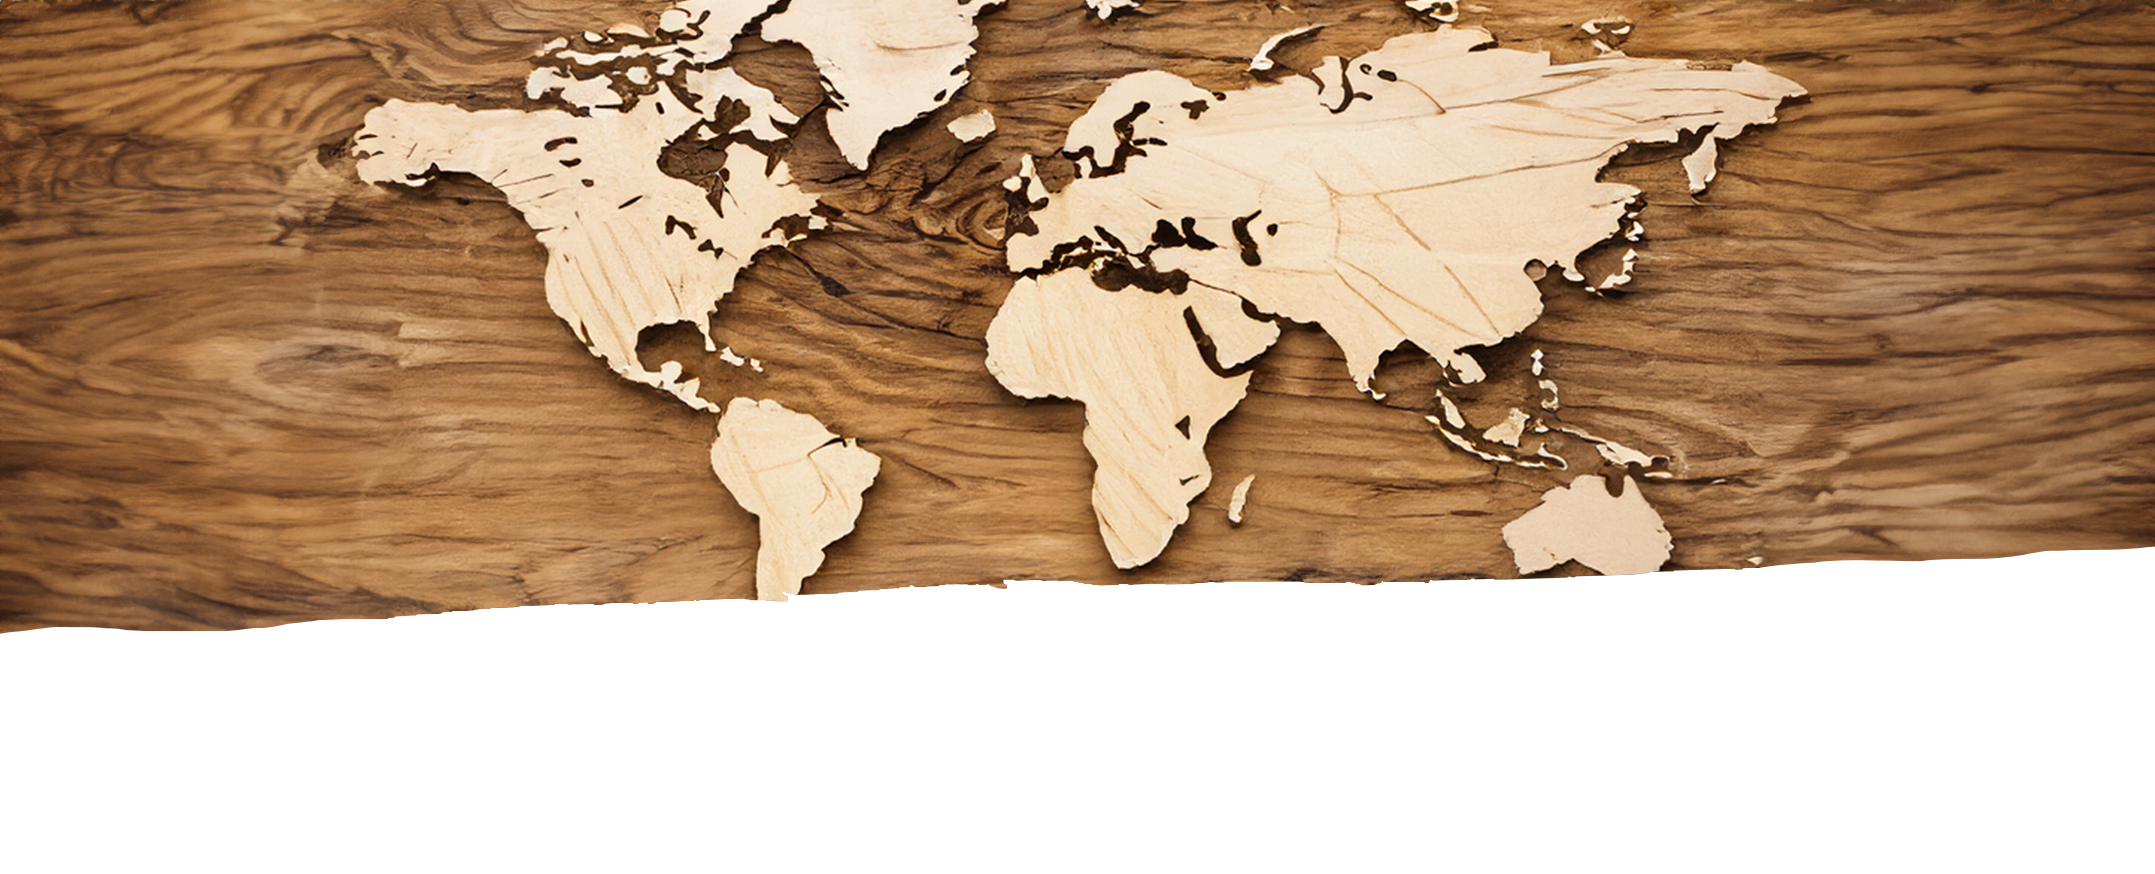
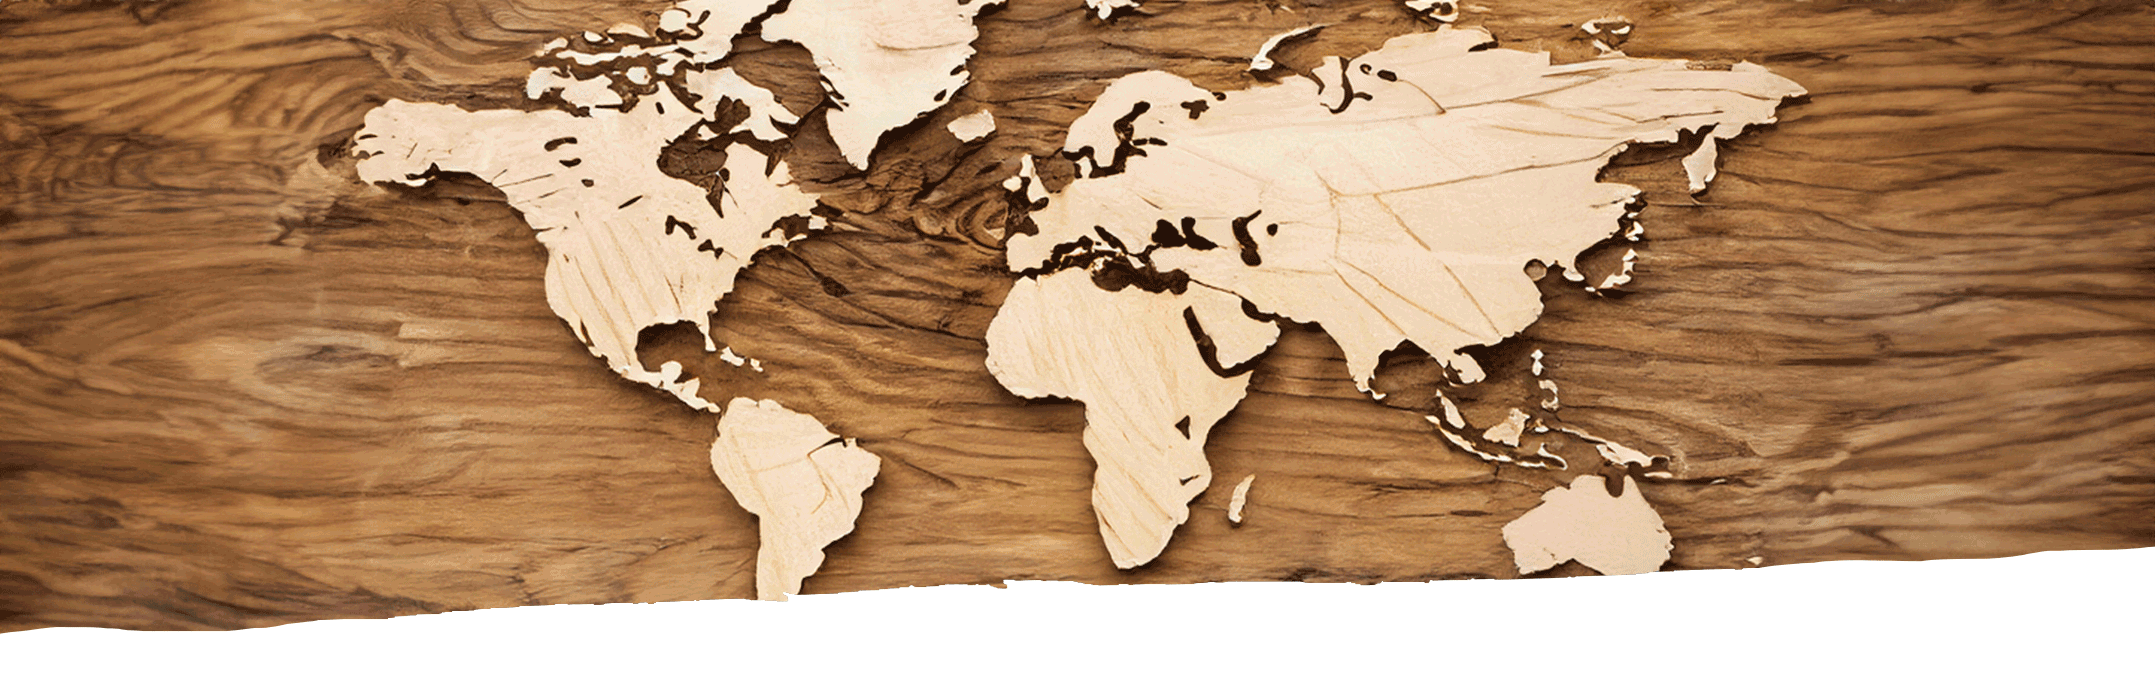
Adiciona as últimas correções passads, como o reajuste das larguras das imagens no mobile, torna o campo outras obras no pop up da imagem clicável, adiciona novas obras, muda as imagens para imagens mais otimziadas.

diff --git a/src/Components/PopupObra/index.jsx b/src/Components/PopupObra/index.jsx
@@ -44,7 +44,7 @@ const StyledCloseIcon = styled(IconButton)(() => ({
     'svg': {
         fontSize: '30px'
     },
-    '@media (max-width: 600px)' : {
+    '@media (max-width: 600px)': {
         right: '6px!important',
         top: '7px!important',
     }
@@ -78,11 +78,11 @@ export default function PopupObra() {
             >
                 <CloseIcon />
             </StyledCloseIcon>
-            <ConteinerPopupObra>
+            <ConteinerPopupObra className={obraSelected.horientacao && 'image-portrait'}>
                 <ConteinerImage>
-                    <img src={obraSelected.url} />
+                    <img src={obraSelected.url} className={obraSelected.horientacao && 'image-portrait'} />
                 </ConteinerImage>
-                <ConteinerDetalhesObra>
+                <ConteinerDetalhesObra className={obraSelected.horientacao && 'image-portrait'}>
                     <section>
                         <h6 className='background-red'>OBRA</h6>
                         <h1>{obraSelected.nome}</h1>
@@ -91,23 +91,21 @@ export default function PopupObra() {
                             <ConteinerCaracteristicasObra>
                                 <div>
                                     <dt>Material</dt>
-                                    <dd>{obraSelected.material}</dd>
+                                    <dd>{obraSelected?.material}</dd>
                                 </div>
+                                {obraSelected.medidas &&
+                                    <div>
+                                        <dt>Medidas</dt>
+                                        <dd>{obraSelected.medidas}</dd>
+                                    </div>
+                                }
 
-                                <div>
-                                    <dt>Medidas</dt>
-                                    <dd>{obraSelected.medidas}</dd>
-                                </div>
-
-                                <div>
-                                    <dt>Ano</dt>
-                                    <dd>{obraSelected.ano}</dd>
-                                </div>
-
-                                <div>
-                                    <dt>Disponibilidade</dt>
-                                    <dd>{obraSelected.disponibilidade}</dd>
-                                </div>
+                                {obraSelected.ano &&
+                                    <div>
+                                        <dt>Ano</dt>
+                                        <dd>{obraSelected.ano}</dd>
+                                    </div>
+                                }
                             </ConteinerCaracteristicasObra>
                         </section>
                     </section>

diff --git a/src/Components/PopupObra/styles.js b/src/Components/PopupObra/styles.js
@@ -6,7 +6,11 @@ export const ConteinerPopupObra = styled.div`
     position: relative;
     height: 647px;
 
-    @media (max-width: 900px) {
+    &.image-portrait {
+        justify-content: space-between;
+    }
+
+    @media (max-width: 1200px) {
         height: auto;
         flex-direction: column;
         padding: 25px 0;
@@ -32,28 +36,49 @@ export const ConteinerImage = styled.div`
         box-shadow: 10px 10px 23px -17px rgba(0,0,0,0.75);
     }
 
+    .image-portrait {
+        width: 527px;
+        height: auto;
+    }
+
     @media (max-width: 900px) {
         width: 100%;
         right: 0;
         text-align: center;
         margin-bottom: 20px;
+
+        &.image-portrait {
+            width: 100%;
+        }
+
+        .image-portrait {
+            width: 95%;
+        }
     }
 
     @media (max-width: 1125px) and (min-width: 900px) {
-        width: 41%;
-        right: 5%;
+        width: 100%;
+        right: 0;
+        display: flex;
+        justify-content: center;
+        margin-bottom: 30px;
+
         img {
             width: 281px;
             height: 427px;
         }
     }
-` 
+`
 
 export const ConteinerDetalhesObra = styled.div`
     width: 70%;
     display: flex;
     flex-direction: column;
     justify-content: space-between;
+
+    &.image-portrait {
+        width: 59%;
+    }
 
     .background-red {
         font-size: 10px;
@@ -87,6 +112,22 @@ export const ConteinerDetalhesObra = styled.div`
 
     @media (min-width: 900px) {
         height: 527px;
+
+        &.image-portrait {
+            width: 59%;
+        }
+    }
+
+    @media (max-width: 900px) {
+        width: 95%;
+
+        &.image-portrait {
+            width: 95%;
+        }
+
+        h1 {
+            font-size: 35px;
+        }
     }
 `
 

diff --git a/src/Pages/Sobre/index.jsx b/src/Pages/Sobre/index.jsx
@@ -34,7 +34,7 @@ export default function PageSobre() {
                             Diferente de todos os homens da sua geração que estavam predestinados a trabalhar na roça, o sábio sertão traçou planos diferentes para Cícero, seu traço fino esculpiu um futuro bem diferente e marcou com o seu canivete toda a história de Nossa Senhora da Glória.
                         </p>
                         <p className="p-margin-bt">
-                            Sem nunca ter observado o trabalho de outros artistas, num ambiente rural, em que o único contato com o mundo exterior era feito através do rádio, ele começou a moldar primeiro em Cera de Abelha depois em madeira. A missão de Véio era introduzir este novo conceito ao seu povo, o qual chamamos de “Arte”.
+                            Sem nunca ter observado o trabalho de outros artistas, num ambiente rural, em que o único contato com o mundo exterior era feito através do rádio, ele começou a moldar primeiro em cera de abelha depois em madeira. A missão de Véio era introduzir este novo conceito ao seu povo, o qual chamamos de “Arte”.
                         </p>
                         <p className="p-margin-bt">
                             Hoje sua história já foi mostrada em  documentários, reportagens, livros, revistas, rodas de conversas. Recebeu o título de Mestre dos Saberes e Doutor Honoris Causa pela Universidade Federal de Sergipe, ocupa a Décima cadeira da Academia Gloriense de Letras e suas obras estão espalhadas  pelo Brasil e o mundo, na Pinacoteca de São Paulo, Museu do homem do nordeste em Recife, Museu de Belas Artes Rio de Janeiro, Fundação Cartier em Paris, The Armory Show New York, etc.

diff --git a/src/Components/CarouselObras/index.jsx b/src/Components/CarouselObras/index.jsx
@@ -17,16 +17,18 @@ const StyledIconForward = styled(ArrowForwardIosOutlined)(() => ({
 export default function CarouselObras() {
     const {
         checkerRandomListRepeat,
-        obraSelected,
+        handleOpenPopUp,
         setObrasSelected,
         obrasCarousel,
         contador,
-        setContador
+        setContador,
+        obraSelected
     } = useObrasContext()
 
     useEffect(() => {
         checkerRandomListRepeat()
-    }, [])
+    }, [obraSelected])
+
     const handleArrowBack = () => {
         if (contador > 1) {
             let contadorAtualizado = contador - 1
@@ -59,7 +61,13 @@ export default function CarouselObras() {
                 <h6>OUTRAS OBRAS</h6>
                 <ConteinerList>
                     {obrasCarousel.slice(contador + 1, contador + 5).map(obra => (
-                        <ItensList key={obra.id}>
+                        <ItensList 
+                            key={obra.id}
+                            onClick={() => {
+                                handleOpenPopUp()
+                                setObrasSelected(obra)
+                            }}
+                        >
                             <img src={obra.url} />
                         </ItensList>
                     ))}

diff --git a/src/Pages/Obras/styles.js b/src/Pages/Obras/styles.js
@@ -11,6 +11,10 @@ export const ConteinerMain = styled.main`
 export const ConteinerInMain = styled.div`
     max-width: 1094px;
     width: 80%;
+
+    @media (max-width: 600px) {
+        width: 100%;
+    } 
 `
 
 export const ConteinerTitleFilter = styled.div`
@@ -21,6 +25,10 @@ export const ConteinerTitleFilter = styled.div`
 
     @media (min-width: 900px) {
         min-width: 710px;
+    } 
+
+    @media (max-width: 600px) {
+        padding: 0 20px 0 20px;
     } 
 `
 
@@ -44,7 +52,18 @@ export const ConteinerGrid = styled.div`
         width: 100%;
         height: 315px;
         cursor: pointer;
+        object-fit: cover;
     }
+
+    @media (max-width: 600px) {
+        grid-template-columns: repeat(auto-fit, 100%);
+
+            img {
+                width: 100%;
+                aspect-ratio: 266 / 398;
+                height: auto;
+            }
+        }
 `
 
 export const ConteinerPagination = styled.div`

diff --git a/src/Components/ObrasHome/styles.js b/src/Components/ObrasHome/styles.js
@@ -12,6 +12,10 @@ export const GridConteiner = styled.div`
     flex-direction: column;
     align-items: center;
     padding: 0 30px 104px 30px;
+
+    @media (max-width: 600px) {
+        padding: 0 0px 104px 0px;
+    }
 `
 
 export const TitleConteiner = styled.div`
@@ -40,11 +44,27 @@ export const GridObras = styled.div`
         height: 398px;
         overflow: hidden;
     }
+
+    @media (max-width: 600px) {
+        grid-template-columns: repeat(auto-fit, 100%);
+
+        div {
+            width: 100%;
+            height: auto;
+            aspect-ratio: 266 / 398;
+
+            img {
+                aspect-ratio: 266 / 398;
+                height: auto;
+            }
+        }
+    }
 `
 
 export const ImgObra = styled.img`
-    width: 266px;
+    width: 100%;
     height: 398px;
+    object-fit: cover;
     filter: brightness(53%);
     transition: transform 0.3s ease;
     cursor: pointer;

diff --git a/src/Pages/PeloMundo/styles.js b/src/Pages/PeloMundo/styles.js
@@ -5,6 +5,7 @@ export const Main = styled.main`
     padding: 0 30px;
     padding-bottom: 170px;
     position: relative;
+    margin-top: 100px;
 `
 
 export const BannerConteiner = styled.div`
@@ -13,11 +14,16 @@ export const BannerConteiner = styled.div`
     position: absolute;
     background-image: url('./Assets/background/mundo_maior.png');
     background-repeat: no-repeat;
+    background-position: 50% 50%;
     top: 0px;
     z-index: 2;
 
-    @media (max-width: 900px) {
-        background-position: 10% 50%;   
+    /* @media (max-width: 1400px) {
+        background-position: 50% 50%;
+    }*/
+
+    @media (max-width: 600px) {
+        background-position: 28% 50%;
     }
 `
 

diff --git a/src/Common/Context/Obras.jsx b/src/Common/Context/Obras.jsx
@@ -77,11 +77,11 @@ export const useObrasContext = () => {
             return (
                 <>
                     <span className="titulo-part-1">
-                        <strong>{firstPart.slice(0, 3)}</strong>{firstPart.slice(3)}
+                        {firstPart}
                     </span>
                     <br />
                     <span className="titulo-part-2">
-                        {secondPart.slice(0, secondPart.length - 2)}<strong>{secondPart.slice(-4, -2)}</strong>{secondPart.slice(-2)}
+                        {secondPart}
                     </span>
                 </>
             )

diff --git a/src/Components/Footer/index.jsx b/src/Components/Footer/index.jsx
@@ -1,6 +1,6 @@
 import { FooterStyled, ConteinerTitle, BackgroundTop } from "./styles"
 
-const DESCRICAO = "© 2024 Site desenvolvido por Rafael Oliva e Guilherme."
+const DESCRICAO = "© 2024 Site desenvolvido por Rafael Oliva e Guilherme Rezende."
 
 export default function Footer() {
 
@@ -8,7 +8,7 @@ export default function Footer() {
         <FooterStyled>
             <BackgroundTop />
             <ConteinerTitle>
-                <h3>VÉI<b>O</b></h3>
+                <img src="\Assets\logo_vermelha.png" />
                 <span>{DESCRICAO}</span>
             </ConteinerTitle>
         </FooterStyled>

diff --git a/src/Components/Head/index.jsx b/src/Components/Head/index.jsx
@@ -13,9 +13,7 @@ export default function Header() {
                         <Link
                             className="botoes-menu-superior"
                             to={'/'}>
-                            <h4>
-                                VÉI<b>O</b>
-                            </h4>
+                            <img src="/Assets/logo_preta.png" />
                         </Link>
                     </RedSquary>
                 </LogoConteiner>

diff --git a/src/Pages/PeloMundo/index.jsx b/src/Pages/PeloMundo/index.jsx
@@ -11,7 +11,7 @@ export default function PeloMundo() {
             <Main>
                 <TitleConteiner>
                     <div>
-                        <h1>A obra de Véio em cartaz no<br /> brasil e no mundo</h1>
+                        <h1>A obra de Véio em cartaz no<br /> Brasil e no mundo</h1>
                         <span>Por Julia Katiene</span>
                     </div>
                 </TitleConteiner>

diff --git a/src/Components/CarouselObras/styles.js b/src/Components/CarouselObras/styles.js
@@ -62,6 +62,7 @@ export const ConteinerList = styled.ul`
 export const ItensList = styled.li`
     width: 119px;
     height: 178px;
+    cursor: pointer;
 
     &:has(+ li) {
         margin-right: 13px;
@@ -70,6 +71,7 @@ export const ItensList = styled.li`
     img {
         width: 100%;
         height: 100%;
+        object-fit: cover;
     }
 
     &:nth-of-type(4) {
